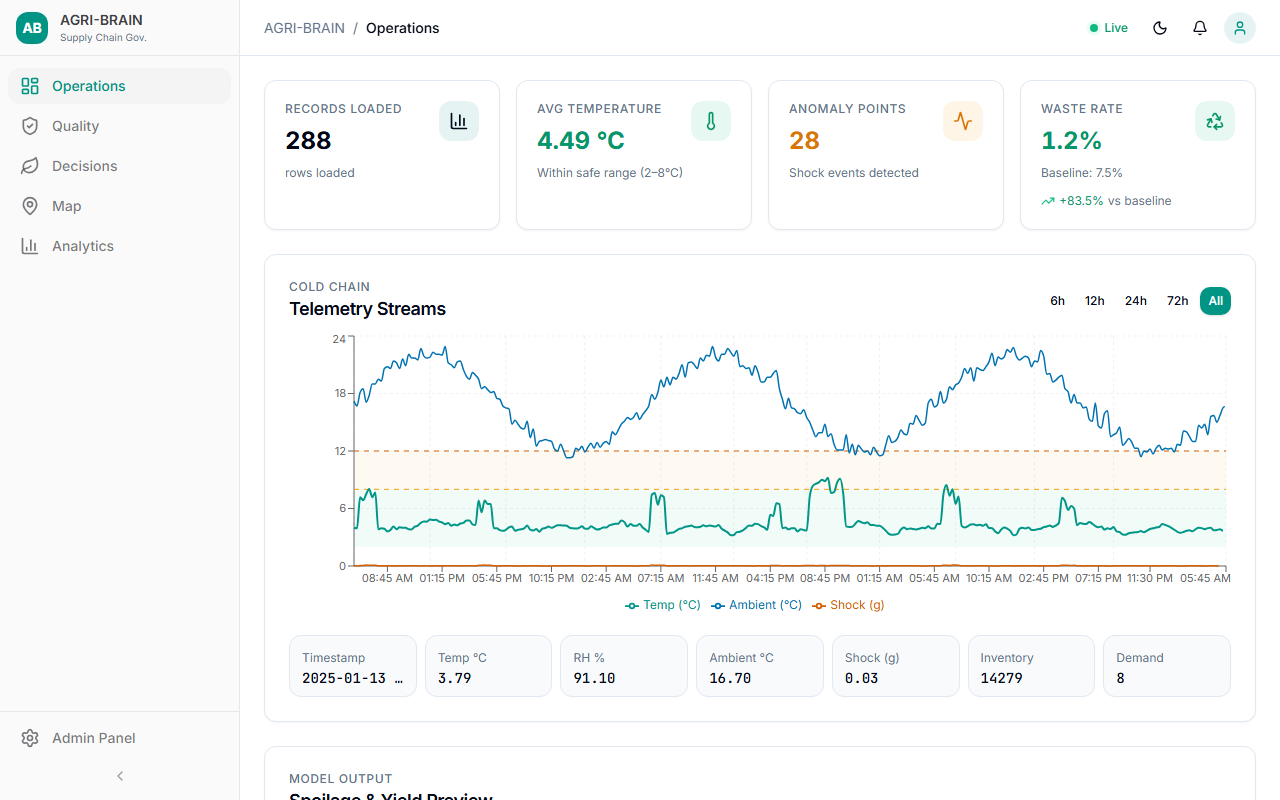
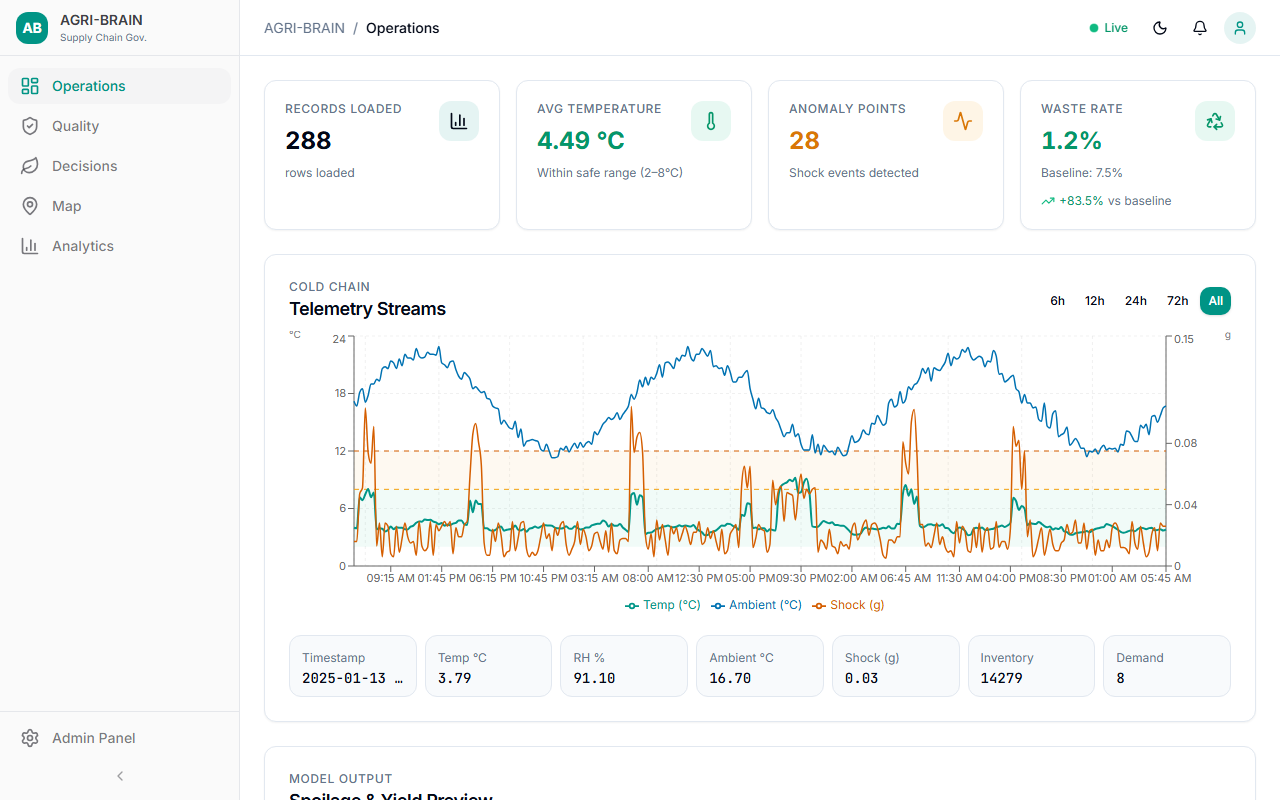
fix annual savings to $199K and add dual Y-axis for shock visibility
- Correct annual savings from $318,500 to $199,000 using conservative
  USDA wholesale spinach price ($1.50/kg × 132,600 kg saved/year)
- Add secondary right Y-axis (0–0.15 g) for shock data in telemetry
  chart so it's visible alongside temperature (was flat at zero on
  the shared °C axis)
- Retake ops-dashboard and analytics-overview screenshots

diff --git a/agri-brain-mvp-1.0.0/frontend/src/pages/OpsPage.jsx b/agri-brain-mvp-1.0.0/frontend/src/pages/OpsPage.jsx
@@ -306,18 +306,19 @@ export default function OpsPage() {
                       return isNaN(d) ? String(v).slice(-5) : d.toLocaleTimeString([], { hour: "2-digit", minute: "2-digit" });
                     }}
                   />
-                  <YAxis tick={{ fontSize: 11 }} />
+                  <YAxis yAxisId="temp" tick={{ fontSize: 11 }} label={{ value: "°C", position: "insideTopLeft", fontSize: 10, offset: -5 }} />
+                  <YAxis yAxisId="shock" orientation="right" tick={{ fontSize: 11 }} label={{ value: "g", position: "insideTopRight", fontSize: 10, offset: -5 }} domain={[0, 0.15]} />
                   <ReTooltip content={<ChartTooltip />} />
                   <Legend wrapperStyle={{ fontSize: 12 }} />
                   {/* Temperature zones */}
-                  <ReferenceArea y1={2} y2={8} fill="#10B981" fillOpacity={0.06} label="" />
-                  <ReferenceArea y1={8} y2={12} fill="#F59E0B" fillOpacity={0.06} label="" />
-                  <ReferenceArea y1={12} y2={50} fill="#D55E00" fillOpacity={0.06} label="" />
-                  <ReferenceLine y={8} stroke="#F59E0B" strokeDasharray="5 5" strokeWidth={1} />
-                  <ReferenceLine y={12} stroke="#D55E00" strokeDasharray="5 5" strokeWidth={1} />
-                  <Line type="monotone" dataKey="tempC" name="Temp (°C)" stroke="#009688" strokeWidth={2} dot={false} />
-                  <Line type="monotone" dataKey="ambientC" name="Ambient (°C)" stroke="#0072B2" strokeWidth={1.5} dot={false} />
-                  <Line type="monotone" dataKey="shockG" name="Shock (g)" stroke="#D55E00" strokeWidth={1.5} dot={false} />
+                  <ReferenceArea yAxisId="temp" y1={2} y2={8} fill="#10B981" fillOpacity={0.06} label="" />
+                  <ReferenceArea yAxisId="temp" y1={8} y2={12} fill="#F59E0B" fillOpacity={0.06} label="" />
+                  <ReferenceArea yAxisId="temp" y1={12} y2={50} fill="#D55E00" fillOpacity={0.06} label="" />
+                  <ReferenceLine yAxisId="temp" y={8} stroke="#F59E0B" strokeDasharray="5 5" strokeWidth={1} />
+                  <ReferenceLine yAxisId="temp" y={12} stroke="#D55E00" strokeDasharray="5 5" strokeWidth={1} />
+                  <Line yAxisId="temp" type="monotone" dataKey="tempC" name="Temp (°C)" stroke="#009688" strokeWidth={2} dot={false} />
+                  <Line yAxisId="temp" type="monotone" dataKey="ambientC" name="Ambient (°C)" stroke="#0072B2" strokeWidth={1.5} dot={false} />
+                  <Line yAxisId="shock" type="monotone" dataKey="shockG" name="Shock (g)" stroke="#D55E00" strokeWidth={1.5} dot={false} />
                 </LineChart>
               </ResponsiveContainer>
             </div>

diff --git a/agri-brain-mvp-1.0.0/frontend/src/pages/AnalyticsPage.jsx b/agri-brain-mvp-1.0.0/frontend/src/pages/AnalyticsPage.jsx
@@ -313,7 +313,7 @@ export default function AnalyticsPage() {
               <HeroCounter value={76.1} suffix="%" label="Waste Reduction" sublabel="2.7% vs 11.3% produce lost" delay={200} />
               <HeroCounter value={52.5} suffix="%" label="Carbon Reduction" sublabel="2,328 vs 4,898 kg CO₂-eq" delay={400} />
               <HeroCounter value={94.9} suffix="%" label="Rerouting Efficiency" sublabel="At-risk batches diverted" delay={600} />
-              <HeroCounter value={318500} prefix="$" label="Annual Savings" sublabel="50,000 kg/week cooperative" delay={800} />
+              <HeroCounter value={199000} prefix="$" label="Annual Savings" sublabel="50,000 kg/week @ $1.50/kg" delay={800} />
             </div>
           </CardContent>
         </Card>
